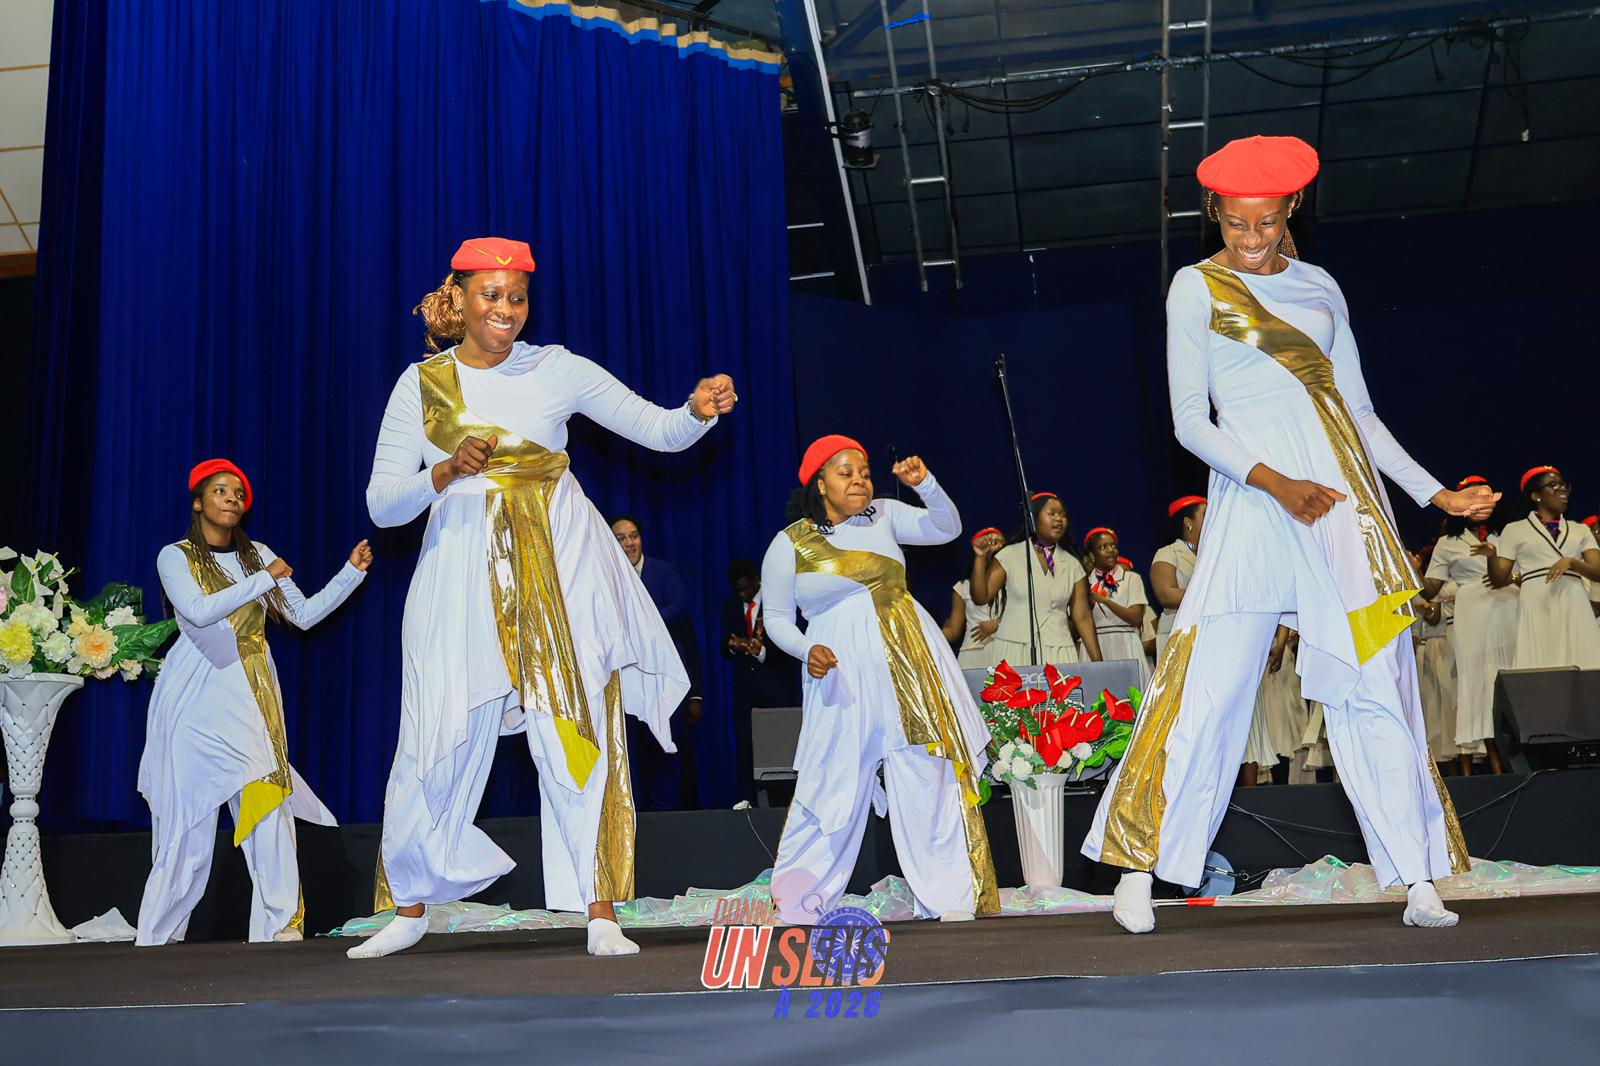
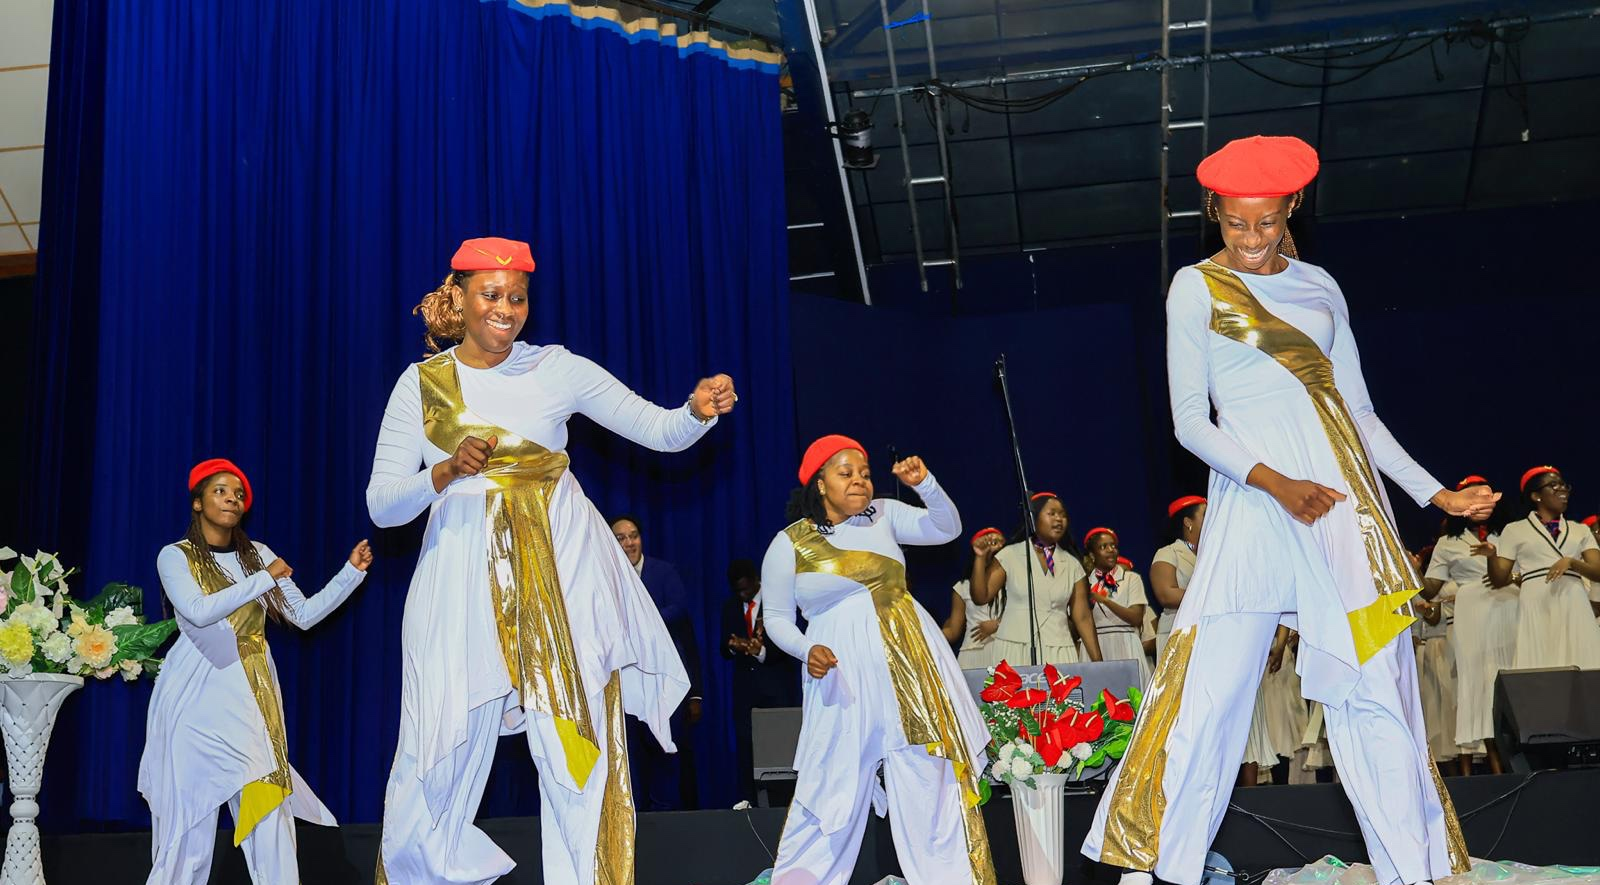
Accueil : Enseignement du Mercredi à la place des Newsletters
- Bloc Newsletters renommé « Enseignement du Mercredi » (ancre #enseignement),
  menu mis à jour sur toutes les pages
- Bouton « En savoir plus » de la slide 2 dirigé vers ce bloc
- Ancien bloc « Derniers enseignements » supprimé, avec son style
- Menu : libellés sur une ligne, menu burger sous 1100 px
- Photo de la slide 1 recadrée pour retirer la mention « Donne un sens à 2026 »

diff --git a/index.html b/index.html
@@ -25,8 +25,8 @@
     <nav class="nav">
       <a href="#ministere">Notre ministère</a>
       <a href="#assemblees">Assemblées</a>
+      <a href="#enseignement">Enseignement du Mercredi</a>
       <a href="#litterature">Littérature</a>
-      <a href="#newsletters">Newsletters</a>
       <a href="#cultes">Cultes</a>
       <a href="contact.html" class="btn btn--outline">Nous contacter</a>
       <a href="inscription.html" class="btn btn--sun">Je m'inscris !</a>
@@ -55,7 +55,7 @@
       <h1>Faites de toutes les nations des <em>disciples</em>.</h1>
       <p>Chaque mercredi, en présentiel, viens te faire former et deviens un disciple du Seigneur Jésus-Christ.</p>
       <div class="hero__cta">
-        <a href="#etude" class="btn btn--sun">En savoir plus</a>
+        <a href="#enseignement" class="btn btn--sun">En savoir plus</a>
       </div>
     </div>
   </div>
@@ -148,41 +148,35 @@
   </div>
 </section>
 
-<!-- ============ ENSEIGNEMENTS ============ -->
-<section class="section" id="enseignements">
+<!-- ============ ENSEIGNEMENT DU MERCREDI ============ -->
+<section class="section" id="enseignement">
   <div class="container">
     <div class="reveal">
       <span class="eyebrow">Enseignement du Mercredi</span>
-      <h2>Derniers enseignements</h2>
-      <p class="lead">Nos semaines sont organisées autour de l'enseignement du mercredi. Comme la Bible le dit dans Actes 2:42, il s'agit là d'un des principaux vecteurs de croissance pour celui qui a choisit d'être disciple du Seigneur Jésus-Christ. Ces moments d'enseignement sont consacrés aux fondamentaux de la vie chrétienne. Voici les points clés des dernières sessions&nbsp;👇</p>
+      <h2>Les messages de nos cultes</h2>
+      <p class="lead">Retrouvez les points clés et messages essentiels partagés lors de nos cultes spéciaux — une belle manière de rester connectés à ce que Dieu fait au milieu de nous.</p>
     </div>
-    <div class="teachings">
-      <article class="teaching reveal">
-        <div class="teaching__thumb"><span>#3</span></div>
-        <div class="teaching__body">
-          <span class="date">01/10/2026</span>
-          <h3>La formation des disciples #3</h3>
-          <p>Comment croître dans sa nouvelle vie — partie 3.</p>
-          <a href="#" class="link-more">Lire le résumé →</a>
-        </div>
+    <div class="news">
+      <article class="news-item reveal">
+        <h3>La vraie repentance</h3>
+        <span class="date">Culte du 13 septembre 2026</span>
+        <blockquote>«&nbsp;On ne met pas du vin nouveau dans de vieilles outres.&nbsp;» — Matthieu 9:17</blockquote>
+        <p>Pour recevoir pleinement la grâce et l'Esprit du Seigneur, nous devons nous laisser renouveler par Lui.</p>
+        <a href="#" class="link-more">Lire la newsletter →</a>
       </article>
-      <article class="teaching reveal">
-        <div class="teaching__thumb"><span>#2</span></div>
-        <div class="teaching__body">
-          <span class="date">24/09/2026</span>
-          <h3>La formation des disciples #2</h3>
-          <p>Comment croître dans sa nouvelle vie — partie 2.</p>
-          <a href="#" class="link-more">Lire le résumé →</a>
-        </div>
+      <article class="news-item reveal">
+        <h3>L'amour véritable</h3>
+        <span class="date">Culte du 27 septembre 2026</span>
+        <blockquote>«&nbsp;Dieu prouve son amour envers nous…&nbsp;» — Romains 5:8</blockquote>
+        <p>Alors que nous étions encore pécheurs, Christ est mort pour nous&nbsp;: voilà la mesure de l'amour de Dieu.</p>
+        <a href="#" class="link-more">Lire la newsletter →</a>
       </article>
-      <article class="teaching reveal">
-        <div class="teaching__thumb"><span>#1</span></div>
-        <div class="teaching__body">
-          <span class="date">17/09/2026</span>
-          <h3>La formation des disciples #1</h3>
-          <p>Comment croître dans sa nouvelle vie — partie 1.</p>
-          <a href="#" class="link-more">Lire le résumé →</a>
-        </div>
+      <article class="news-item reveal">
+        <h3>La foi véritable</h3>
+        <span class="date">Culte du 4 octobre 2026</span>
+        <blockquote>«&nbsp;Il récompense ceux qui le cherchent.&nbsp;» — Hébreux 11:6</blockquote>
+        <p>Une foi vivante et active, nourrie de repentance, d'obéissance et d'amour, qui transforme notre quotidien.</p>
+        <a href="#" class="link-more">Lire la newsletter →</a>
       </article>
     </div>
   </div>
@@ -293,40 +287,6 @@
         <dt>Où</dt><dd>En ligne (lien envoyé après inscription)</dd>
         <dt>Pour qui</dt><dd>Ouvert à tous</dd>
       </dl>
-    </div>
-  </div>
-</section>
-
-<!-- ============ NEWSLETTERS ============ -->
-<section class="section section--alt" id="newsletters">
-  <div class="container">
-    <div class="reveal">
-      <span class="eyebrow">Newsletters</span>
-      <h2>Les messages de nos cultes</h2>
-      <p class="lead">Retrouvez les points clés et messages essentiels partagés lors de nos cultes spéciaux — une belle manière de rester connectés à ce que Dieu fait au milieu de nous.</p>
-    </div>
-    <div class="news">
-      <article class="news-item reveal">
-        <h3>La vraie repentance</h3>
-        <span class="date">Culte du 13 septembre 2026</span>
-        <blockquote>«&nbsp;On ne met pas du vin nouveau dans de vieilles outres.&nbsp;» — Matthieu 9:17</blockquote>
-        <p>Pour recevoir pleinement la grâce et l'Esprit du Seigneur, nous devons nous laisser renouveler par Lui.</p>
-        <a href="#" class="link-more">Lire la newsletter →</a>
-      </article>
-      <article class="news-item reveal">
-        <h3>L'amour véritable</h3>
-        <span class="date">Culte du 27 septembre 2026</span>
-        <blockquote>«&nbsp;Dieu prouve son amour envers nous…&nbsp;» — Romains 5:8</blockquote>
-        <p>Alors que nous étions encore pécheurs, Christ est mort pour nous&nbsp;: voilà la mesure de l'amour de Dieu.</p>
-        <a href="#" class="link-more">Lire la newsletter →</a>
-      </article>
-      <article class="news-item reveal">
-        <h3>La foi véritable</h3>
-        <span class="date">Culte du 4 octobre 2026</span>
-        <blockquote>«&nbsp;Il récompense ceux qui le cherchent.&nbsp;» — Hébreux 11:6</blockquote>
-        <p>Une foi vivante et active, nourrie de repentance, d'obéissance et d'amour, qui transforme notre quotidien.</p>
-        <a href="#" class="link-more">Lire la newsletter →</a>
-      </article>
     </div>
   </div>
 </section>

diff --git a/assets/css/style.css b/assets/css/style.css
@@ -94,14 +94,14 @@ p { margin: 0 0 1em; }
 @media (max-width: 560px) { .logo img { height: 60px; } }
 
 .nav { display: flex; align-items: center; gap: 26px; }
-.nav a { color: var(--white); text-decoration: none; font-weight: 500; font-size: .95rem; opacity: .9; }
+.nav a { color: var(--white); text-decoration: none; font-weight: 500; font-size: .95rem; opacity: .9; white-space: nowrap; }
 .nav a:hover { opacity: 1; color: var(--sun); }
 .nav .btn { padding: .6em 1.2em; font-size: .9rem; }
 .nav .btn--light, .nav .btn--sun { color: var(--navy); opacity: 1; }
 .nav .btn--light:hover, .nav .btn--sun:hover { color: var(--navy); }
 .burger { display: none; background: none; border: 0; color: var(--white); cursor: pointer; padding: 8px; }
 
-@media (max-width: 920px) {
+@media (max-width: 1100px) {
   .burger { display: block; }
   .nav {
     position: fixed; inset: 96px 0 auto 0;
@@ -225,23 +225,7 @@ p { margin: 0 0 1em; }
 .city span { font-size: .88rem; color: #aab3cc; }
 @media (max-width: 860px) { .split { grid-template-columns: 1fr; } }
 
-/* ---------- Enseignements ---------- */
-.teachings { display: grid; grid-template-columns: repeat(3, 1fr); gap: 22px; margin-top: 44px; }
-.teaching { background: var(--white); border-radius: var(--radius); overflow: hidden; border: 1px solid var(--line); display: flex; flex-direction: column; }
-.teaching__thumb {
-  aspect-ratio: 16/10; background: linear-gradient(135deg, var(--navy), var(--navy-2));
-  position: relative; display: grid; place-items: center; color: var(--white);
-  font-family: var(--font-title); font-weight: 800; font-size: 3.2rem;
-}
-.teaching__thumb::after {
-  content: ""; position: absolute; left: 0; right: 0; bottom: 18%; height: 28px; background: var(--sun); opacity: .9; transform: skewY(-4deg);
-}
-.teaching__thumb span { position: relative; z-index: 1; }
-.teaching__body { padding: 22px 24px 26px; }
-.teaching__body h3 { font-size: 1.15rem; margin-bottom: .3em; }
-.teaching__body p { color: var(--muted); margin: 0 0 .6em; font-size: .95rem; }
 .date { font-size: .82rem; font-weight: 600; color: var(--blue); }
-@media (max-width: 900px) { .teachings { grid-template-columns: 1fr; } }
 
 /* ---------- Littérature : carrousel « Le Chemin Chrétien » ---------- */
 .books-head { display: flex; flex-wrap: wrap; justify-content: space-between; align-items: end; gap: 24px; }

diff --git a/contact.html b/contact.html
@@ -26,7 +26,7 @@
       <a href="index.html#ministere">Notre ministère</a>
       <a href="index.html#assemblees">Assemblées</a>
       <a href="index.html#litterature">Littérature</a>
-      <a href="index.html#newsletters">Newsletters</a>
+      <a href="index.html#enseignement">Enseignement du Mercredi</a>
       <a href="index.html#cultes">Cultes</a>
       <a href="contact.html" class="btn btn--outline">Nous contacter</a>
       <a href="inscription.html" class="btn btn--sun">Je m'inscris !</a>

diff --git a/inscription.html b/inscription.html
@@ -26,7 +26,7 @@
       <a href="index.html#ministere">Notre ministère</a>
       <a href="index.html#assemblees">Assemblées</a>
       <a href="index.html#litterature">Littérature</a>
-      <a href="index.html#newsletters">Newsletters</a>
+      <a href="index.html#enseignement">Enseignement du Mercredi</a>
       <a href="index.html#cultes">Cultes</a>
       <a href="contact.html" class="btn btn--outline">Nous contacter</a>
       <a href="inscription.html" class="btn btn--sun">Je m'inscris !</a>

diff --git a/mentions-legales.html b/mentions-legales.html
@@ -26,7 +26,7 @@
       <a href="index.html#ministere">Notre ministère</a>
       <a href="index.html#assemblees">Assemblées</a>
       <a href="index.html#litterature">Littérature</a>
-      <a href="index.html#newsletters">Newsletters</a>
+      <a href="index.html#enseignement">Enseignement du Mercredi</a>
       <a href="index.html#cultes">Cultes</a>
       <a href="contact.html" class="btn btn--outline">Nous contacter</a>
       <a href="inscription.html" class="btn btn--sun">Je m'inscris !</a>
